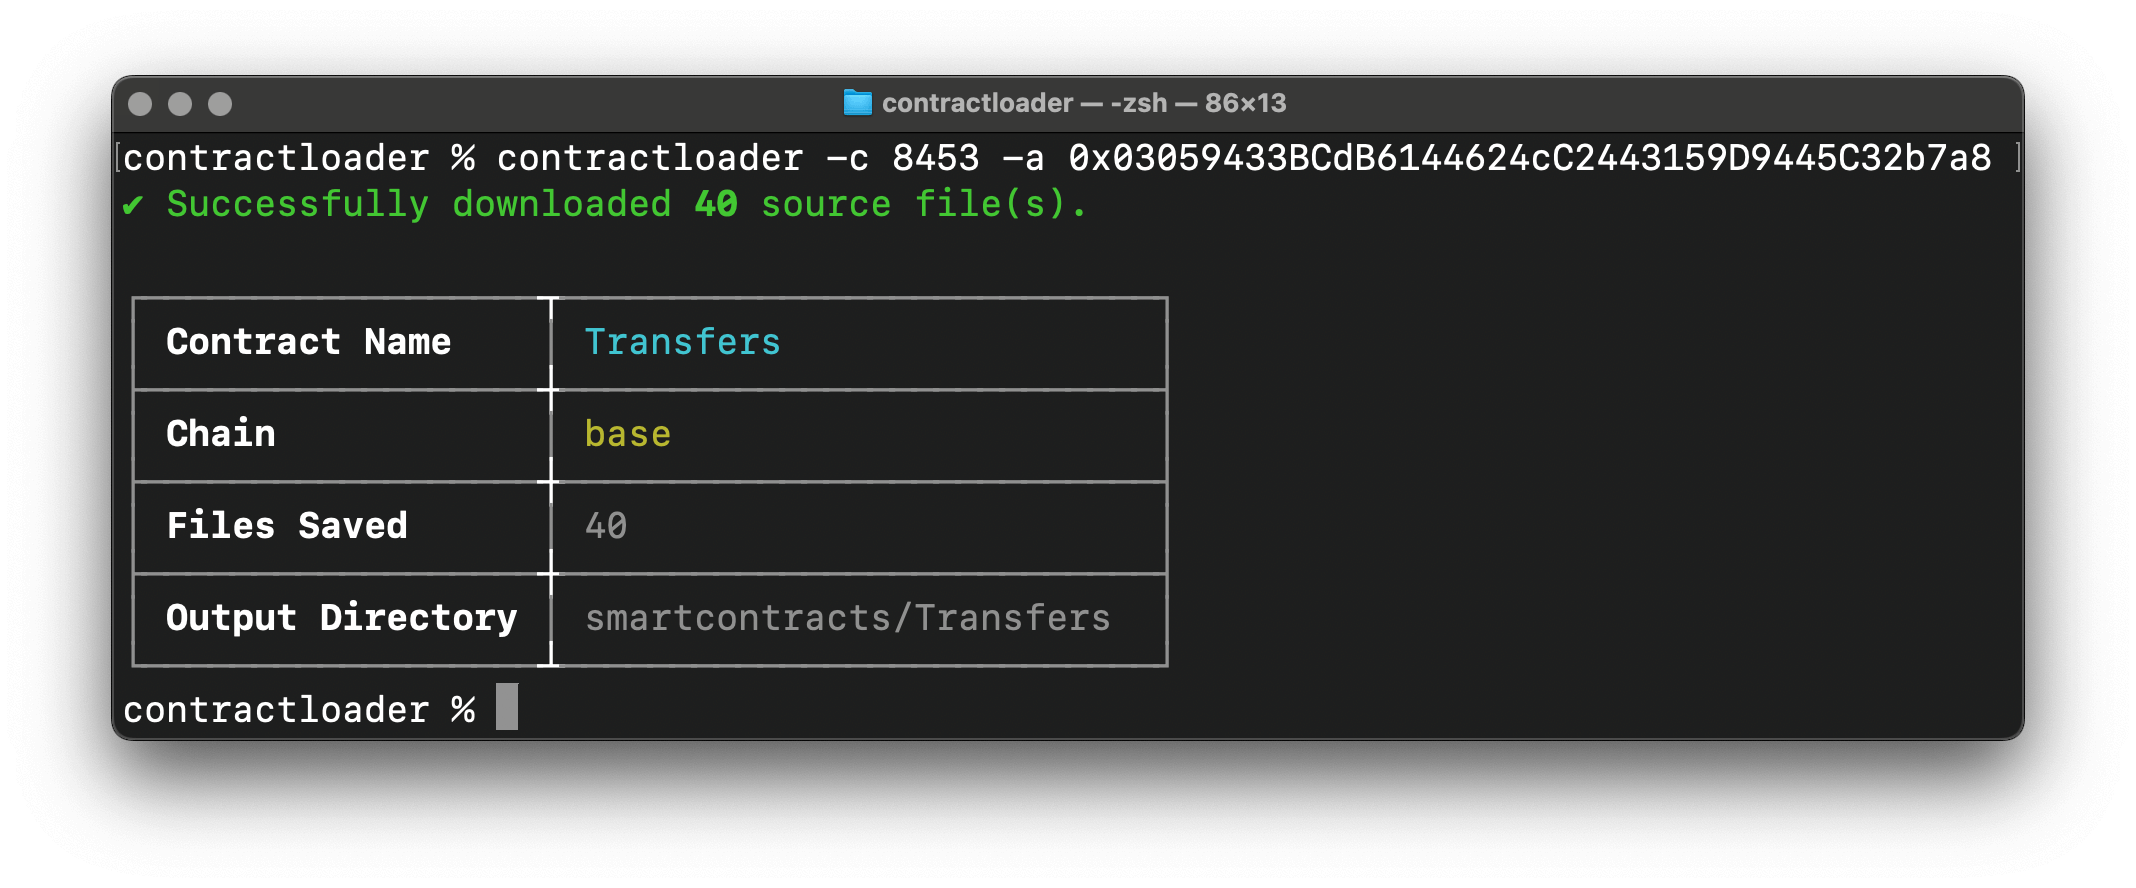
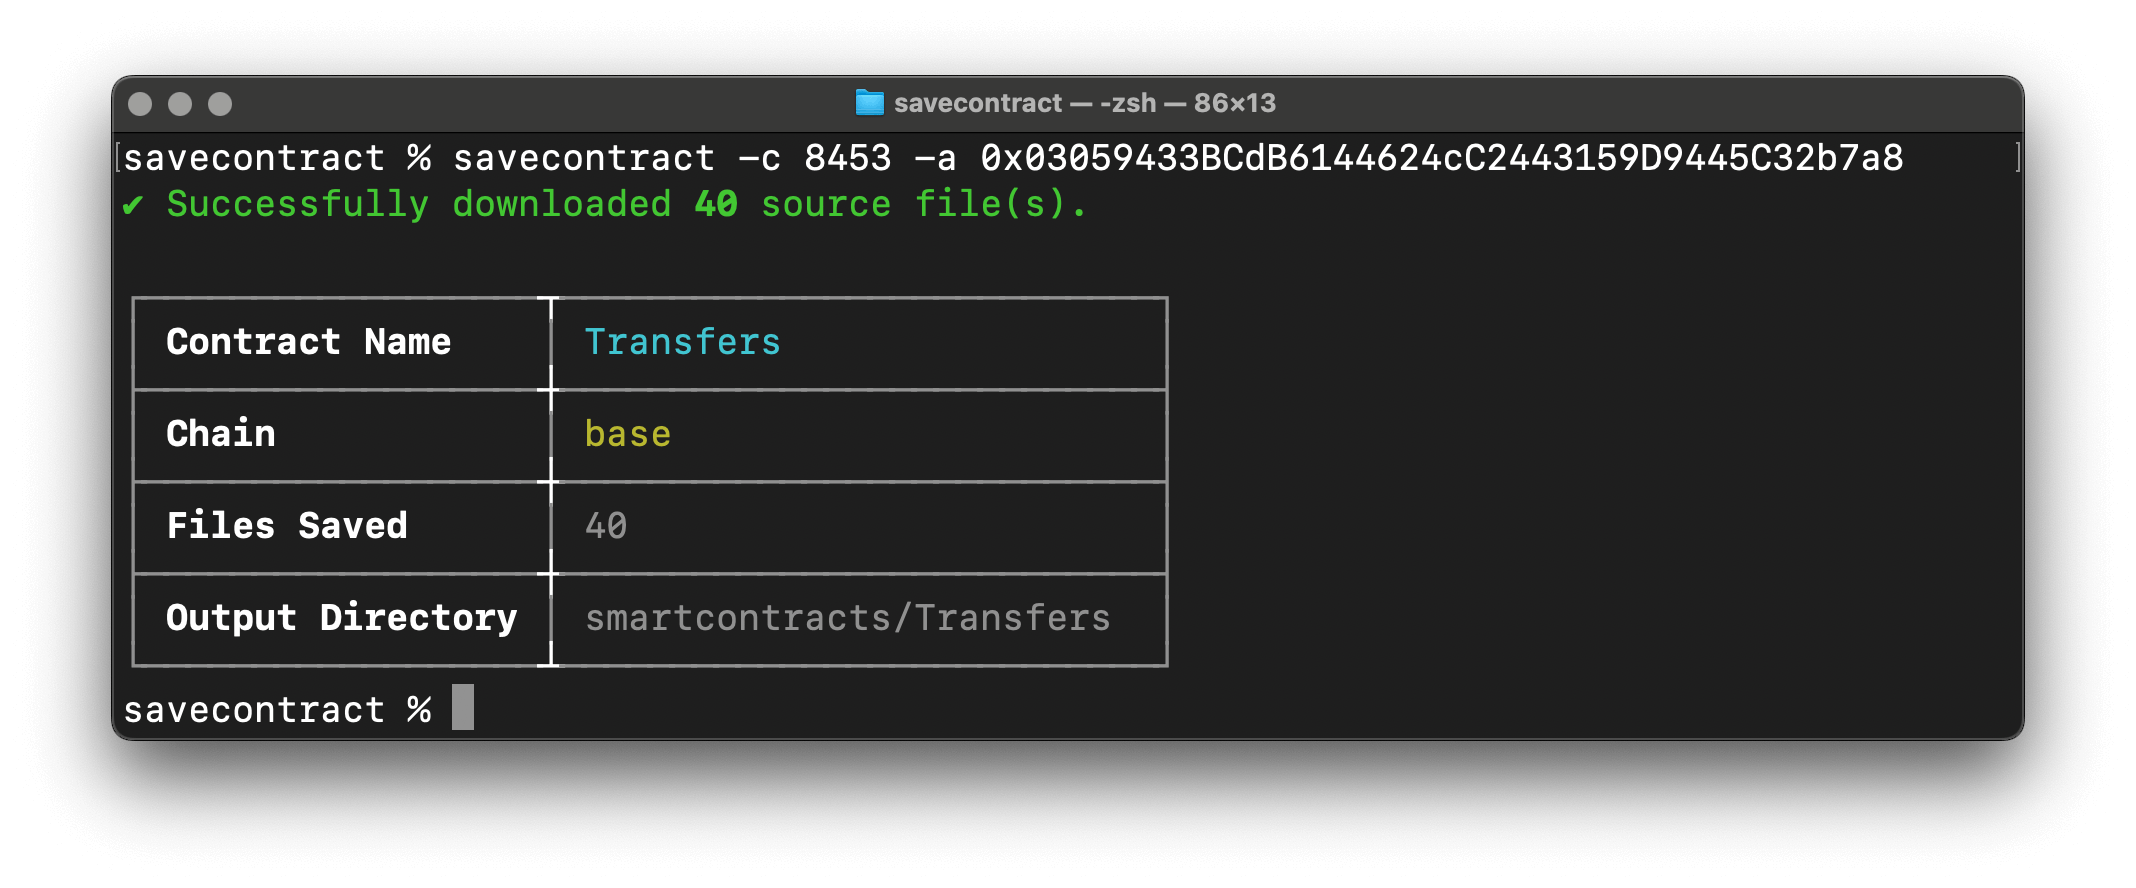
refactor: rename project to savecontract

Changed region(s): [[0.0618, 0.0912, 0.927, 0.2128], [0.0618, 0.7601, 0.2472, 0.8209]]

diff --git a/src/cli.js b/src/cli.js
@@ -46,7 +46,7 @@ export function cli(args) {
           });
       }
     )
-    .env("CONTRACTLOADER") // Allows setting options via CONTRACTLOADER_APIKEY etc.
+    .env("SAVECONTRACT") // Allows setting options via SAVECONTRACT_APIKEY etc.
     .help()
     .alias("help", "h")
     .version()

diff --git a/README.md b/README.md
@@ -1,6 +1,6 @@
-# ContractLoader
+# SaveContract
 
-<img src="https://raw.githubusercontent.com/aaurelions/contractloader/refs/heads/main/screenshot.png">
+<img src="https://raw.githubusercontent.com/aaurelions/savecontract/refs/heads/main/screenshot.png">
 
 A CLI tool to download verified smart contract source code from Etherscan and other Etherscan-powered block explorers using the official V2 API.
 
@@ -13,16 +13,16 @@ A CLI tool to download verified smart contract source code from Etherscan and ot
 
 ## Installation
 
-You can run `contractloader` directly using `npx` without installation.
+You can run `savecontract` directly using `npx` without installation.
 
 ```bash
-npx contractloader --address <contract_address> [options]
+npx savecontract --address <contract_address> [options]
 ```
 
 Or, you can install it globally for easier access:
 
 ```bash
-npm install -g contractloader
+npm install -g savecontract
 ```
 
 ## Usage
@@ -30,7 +30,7 @@ npm install -g contractloader
 ### Basic Command
 
 ```bash
-contractloader --address <contract_address> --chainid <chain> --apikey <your_api_key> --output <directory>
+savecontract --address <contract_address> --chainid <chain> --apikey <your_api_key> --output <directory>
 ```
 
 ### Arguments and Options
@@ -53,7 +53,7 @@ An Etherscan API key (from the free tier) is required. You can provide it in two
 1.  **Via Command Line (highest priority):**
 
     ```bash
-    contractloader -a 0x... -k YOUR_API_KEY
+    savecontract -a 0x... -k YOUR_API_KEY
     ```
 
 2.  **Via `.env` file (recommended):**
@@ -67,7 +67,7 @@ An Etherscan API key (from the free tier) is required. You can provide it in two
 **1. Download a contract from Base mainnet:**
 
 ```bash
-npx contractloader -a 0x03059433BCdB6144624cC2443159D9445C32b7a8 -c base -o ./base_contracts
+npx savecontract -a 0x03059433BCdB6144624cC2443159D9445C32b7a8 -c base -o ./base_contracts
 ```
 
 _(This assumes your API key is in a `.env` file)_
@@ -75,13 +75,13 @@ _(This assumes your API key is in a `.env` file)_
 **2. Download a contract from Ethereum mainnet (default chain):**
 
 ```bash
-npx contractloader -a 0xBB9bc244D798123fDe783fCc1C72d3Bb8C189413
+npx savecontract -a 0xBB9bc244D798123fDe783fCc1C72d3Bb8C189413
 ```
 
 **3. Specify API key directly for a contract on Polygon:**
 
 ```bash
-npx contractloader --address 0x... --chainid polygon --apikey YOUR_API_KEY
+npx savecontract --address 0x... --chainid polygon --apikey YOUR_API_KEY
 ```
 
 ### Supported Chains
